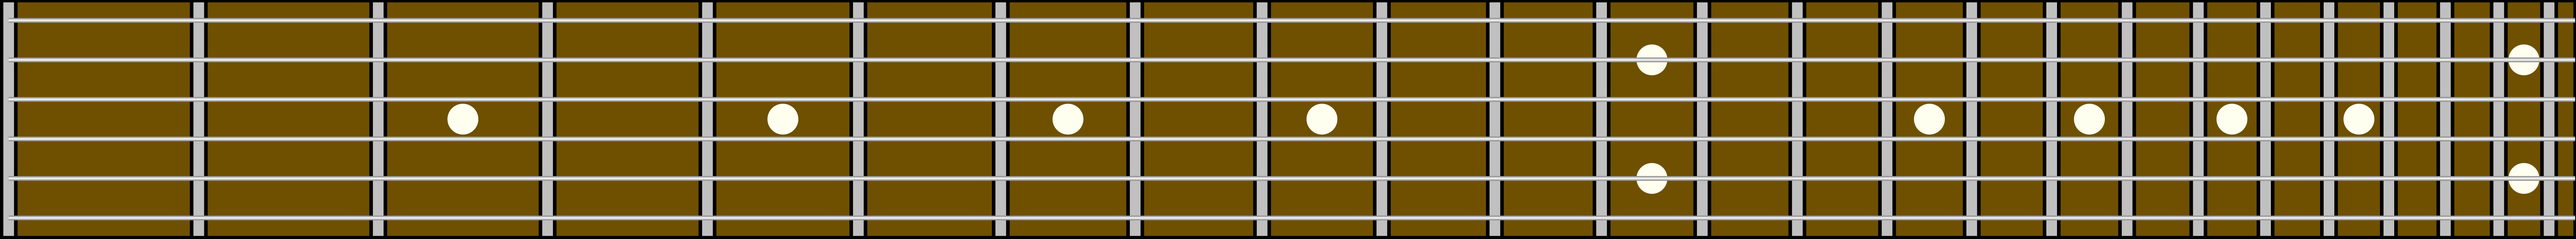
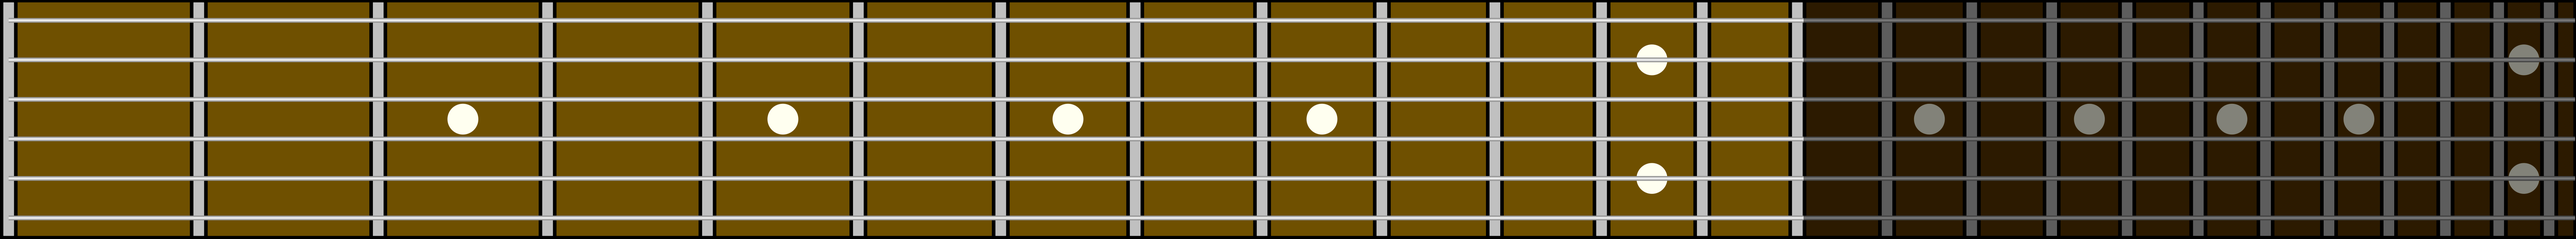
Add new chords to discovery algorithm, add shadow to fretboard, add interval and chord notes in popup

Changed region(s): [[0.6849, 0.0, 1.0, 1.0]]

diff --git a/js/main.js b/js/main.js
@@ -37,21 +37,31 @@ $('.marker').click(function() {
 $('#findChord').click(function() {
 	var notesList = [];
 	var scale;
+	var notesText = '';
+	var chord = {};
 
 	$('.marker').each(function(index) {
 		if ($(this).css('visibility') == 'visible') {
 			var stringPerc = $(this)[0].style.top;
-			var fretPerc = $(this)[0].style.left
+			var fretPerc = $(this)[0].style.left;
+
 			notesList.push(getNote(getFretFromPerc(fretPerc)+getStringFromPerc(stringPerc)));
+			console.log($('#chordNotes').text());
+			notesText = notesText + ' ' + getNote(getFretFromPerc(fretPerc)+getStringFromPerc(stringPerc));
 		}
 	});
 
 	if (notesList.length === 0) {
 		$('#warning').text('Please select frets to identify a chord.');
+	} else if (notesList.length < 3) {
+		$('#warning').text('Please select at least 3 notes to form a chord.');
 	} else {
 		$('#warning').text('');
 		scale = getScale(notesList[0]);
-		$('#chordName').text(notesList[0]+' '+identifyChord(getInterval(notesList, scale)));
+		chord = identifyChord(getInterval(notesList, scale));
+		$('#chordName').text(notesList[0]+' '+chord.name);
+		$('#chordNotes').text('Notes: '+notesText);
+		$('#chordInterval').text('Interval: '+chord.interval);
 		$('#modal').modal('show');
 	}
 });
@@ -254,57 +264,115 @@ function getInterval(notes, scale) {
 }
 
 function identifyChord(interval) {
-	if (interval.indexOf('1') >= 0 &&  interval.indexOf('2') >= 0 && interval.indexOf('3') >= 0 && interval.indexOf('7') >= 0) {
-		return 'Major 9th';
-	} else if (interval.indexOf('1') >= 0 &&  interval.indexOf('2') >= 0 && interval.indexOf('b3') >= 0 && interval.indexOf('b7') >= 0) {
-		return 'Minor 9th';
-	} else if (interval.indexOf('1') >= 0 &&  interval.indexOf('b3') >= 0 && interval.indexOf('b5') >= 0 && interval.indexOf('b7') >= 0) {
-		return 'Half Diminished';
-	} else if (interval.indexOf('1') >= 0 &&  interval.indexOf('2') >= 0 && interval.indexOf('3') >= 0 && interval.indexOf('b7') >= 0) {
-		return 'Dominant 9th';
-	} else if (interval.indexOf('1') >= 0 &&  interval.indexOf('b3') >= 0 && interval.indexOf('b5') >= 0 && interval.indexOf('6') >= 0) {
-		return 'Diminished 7th';
-	} else if (interval.indexOf('1') >= 0 &&  interval.indexOf('3') >= 0 && interval.indexOf('#5') >= 0 && interval.indexOf('b7') >= 0) {
-		return 'Augmented 7th';
-	} else if (interval.indexOf('1') >= 0 &&  interval.indexOf('3') >= 0 && interval.indexOf('b5') >= 0 && interval.indexOf('b7') >= 0) {
-		return 'Seventh Flat 5';
-	} else if (interval.indexOf('1') >= 0 && interval.indexOf('3') >= 0 && interval.indexOf('7') >= 0) {
-		return 'Major 7th';
-	} else if (interval.indexOf('1') >= 0 && interval.indexOf('b3') >= 0 && interval.indexOf('b7') >= 0) {
-		return 'Minor 7th';
-	} else if (interval.indexOf('1') >= 0 && interval.indexOf('b3') >= 0 && interval.indexOf('7') >= 0) {
-		return 'Major/Minor 7th';
-	} else if (interval.indexOf('1') >= 0 && interval.indexOf('3') >= 0 && interval.indexOf('6') >= 0) {
-		return 'Major 6th';
-	} else if (interval.indexOf('1') >= 0 && interval.indexOf('b3') >= 0 && interval.indexOf('6') >= 0) {
-		return 'Minor 6th';
-	} else if (interval.indexOf('1') >= 0 && interval.indexOf('b3') >= 0 && interval.indexOf('4') >= 0) {
-		return 'Minor Add 4th';
-	} else if (interval.indexOf('1') >= 0 && interval.indexOf('3') >= 0 && interval.indexOf('b7') >= 0) {
-		return 'Dominant 7th';
-	} else if (interval.indexOf('1') >= 0 && interval.indexOf('3') >= 0 && interval.indexOf('4') >= 0) {
-		return 'Major Add 4th';
-	} else if (interval.indexOf('1') >= 0 && interval.indexOf('4') >= 0 && interval.indexOf('b7') >= 0) {
-		return '7th Suspended 4th';
-	} else if (interval.indexOf('1') >= 0 && interval.indexOf('b3') >= 0 && interval.indexOf('b5') >= 0) {
-		return 'Diminished';
-	} else if (interval.indexOf('1') >= 0 && interval.indexOf('3') >= 0) {
-		return 'Major';
-	} else if (interval.indexOf('1') >= 0 && interval.indexOf('b3') >= 0) {
-		return 'Minor';
-	} else if (interval.indexOf('1') >= 0 && interval.indexOf('2') >= 0) {
-		return 'Suspended 2nd';
-	} else if (interval.indexOf('1') >= 0 && interval.indexOf('4') >= 0) {
-		return 'Suspended 4th';
-	} else if (interval.indexOf('1') >= 0 && interval.indexOf('5') >= 0) {
-		return 'Fifth (Power Chord)';
-	} else if (interval.indexOf('1') >= 0 && interval.indexOf('b5') >= 0) {
-		return 'Flat Fifth';
-	} else if (interval.indexOf('1') >= 0 && interval.indexOf('#5') >= 0) {
-		return 'Augmented';
-	} else if (interval.indexOf('1') >= 0) {
-		return 'Octave';
-	} else {
-		return 'Unknown Chord';
+	var chord = {};
+
+	for (note in interval) {
+		console.log(interval[note]);
 	}
+
+	if (interval.indexOf('1') >= 0 &&  interval.indexOf('2') >= 0 && interval.indexOf('3') >= 0 && interval.indexOf('7') >= 0) {
+		chord.name = 'Major 9th';
+		chord.interval = '1-3-5-7-9';
+	} else if (interval.indexOf('1') >= 0 &&  interval.indexOf('2') >= 0 && interval.indexOf('b3') >= 0 && interval.indexOf('b7') >= 0) {
+		chord.name = 'Minor 9th';
+		chord.interval = '1-b3-5-b7-9';
+	} else if (interval.indexOf('1') >= 0 &&  interval.indexOf('2') >= 0 && interval.indexOf('3') >= 0 && interval.indexOf('b7') >= 0) {
+		chord.name = 'Dominant 9th';
+		chord.interval = '1-3-5-b7-9';
+	} else if (interval.indexOf('1') >= 0 &&  interval.indexOf('b3') >= 0 && interval.indexOf('b5') >= 0 && interval.indexOf('b7') >= 0) {
+		chord.name = 'Half Diminished';
+		chord.interval = '1-b3-b5-b7';
+	} else if (interval.indexOf('1') >= 0 &&  interval.indexOf('b3') >= 0 && interval.indexOf('b5') >= 0 && interval.indexOf('6') >= 0) {
+		chord.name = 'Diminished 7th';
+		chord.interval = '1-b3-b5-bb7';
+	} else if (interval.indexOf('1') >= 0 &&  interval.indexOf('3') >= 0 && interval.indexOf('#5') >= 0 && interval.indexOf('b7') >= 0) {
+		chord.name = 'Augmented 7th';
+		chord.interval = '1-3-#5-b7';
+	} else if (interval.indexOf('1') >= 0 &&  interval.indexOf('3') >= 0 && interval.indexOf('b5') >= 0 && interval.indexOf('b7') >= 0) {
+		chord.name = 'Seventh Flat 5';
+		chord.interval = '1-3-b5-b7';
+	} 
+
+	else if (interval.indexOf('1') >= 0 && interval.indexOf('3') >= 0 && interval.indexOf('7') >= 0) {
+		chord.name = 'Major 7th';
+		chord.interval = '1-3-5-7';
+	} else if (interval.indexOf('1') >= 0 && interval.indexOf('5') >= 0 && interval.indexOf('7') >= 0) {
+		chord.name = 'Major 7th (omit 3rd)';
+		chord.interval = '1-5-7';
+	} else if (interval.indexOf('1') >= 0 && interval.indexOf('2') >= 0 && interval.indexOf('7') >= 0) {
+		chord.name = 'Major 9th (omit 3rd)';
+		chord.interval = '1-5-7-9';
+	} else if (interval.indexOf('1') >= 0 && interval.indexOf('2') >= 0 && interval.indexOf('b7') >= 0) {
+		chord.name = 'Dominant 9th (omit 3rd)';
+		chord.interval = '1-5-b7-9';
+	} else if (interval.indexOf('1') >= 0 && interval.indexOf('#5') >= 0 && interval.indexOf('b7') >= 0) {
+		chord.name = 'Augmented 7th (omit 3rd)';
+		chord.interval = '1-#5-b7';
+	} else if (interval.indexOf('1') >= 0 && interval.indexOf('b5') >= 0 && interval.indexOf('b7') >= 0) {
+		chord.name = 'Seventh Flat 5 (omit 3rd)';
+		chord.interval = '1-b5-b7';
+	} else if (interval.indexOf('1') >= 0 && interval.indexOf('3') >= 0 && interval.indexOf('6') >= 0) {
+		chord.name = 'Major 6th';
+		chord.interval = '1-3-5-6';
+	} else if (interval.indexOf('1') >= 0 && interval.indexOf('5') >= 0 && interval.indexOf('6') >= 0) {
+		chord.name = 'Major 6th (omit 3rd)';
+		chord.interval = '1-5-6';
+	} else if (interval.indexOf('1') >= 0 && interval.indexOf('3') >= 0 && interval.indexOf('b7') >= 0) {
+		chord.name = 'Dominant 7th';
+		chord.interval = '1-3-5-b7';
+	} else if (interval.indexOf('1') >= 0 && interval.indexOf('5') >= 0 && interval.indexOf('b7') >= 0) {
+		chord.name = 'Dominant 7th (omit 3rd)';
+		chord.interval = '1-5-b7';
+	} else if (interval.indexOf('1') >= 0 && interval.indexOf('b3') >= 0 && interval.indexOf('b7') >= 0) {
+		chord.name = 'Minor 7th';
+		chord.interval = '1-b3-5-b7';
+	} else if (interval.indexOf('1') >= 0 && interval.indexOf('b3') >= 0 && interval.indexOf('7') >= 0) {
+		chord.name = 'Major/Minor 7th';
+		chord.interval = '1-b3-5-7';
+	} else if (interval.indexOf('1') >= 0 && interval.indexOf('b3') >= 0 && interval.indexOf('6') >= 0) {
+		chord.name = 'Minor 6th';
+		chord.interval = '1-b3-5-6';
+	} else if (interval.indexOf('1') >= 0 && interval.indexOf('b3') >= 0 && interval.indexOf('b5') >= 0) {
+		chord.name = 'Diminished';
+		chord.interval = '1-b3-b5';
+	} else if (interval.indexOf('1') >= 0 && interval.indexOf('b3') >= 0 && interval.indexOf('4') >= 0) {
+		chord.name = 'Minor Add 4th';
+		chord.interval = '1-b3-4-5';
+	} else if (interval.indexOf('1') >= 0 && interval.indexOf('4') >= 0 && interval.indexOf('b7') >= 0) {
+		chord.name = '7th Suspended 4th';
+		chord.interval = '1-4-5-b7';
+	} else if (interval.indexOf('1') >= 0 && interval.indexOf('3') >= 0 && interval.indexOf('4') >= 0) {
+		chord.name = 'Major Add 4th';
+		chord.interval = '1-3-4-5';
+	} else if (interval.indexOf('1') >= 0 && interval.indexOf('2') >= 0 && interval.indexOf('5') >= 0) {
+		chord.name = 'Suspended 2nd';
+		chord.interval = '1-2-5';
+	} else if (interval.indexOf('1') >= 0 && interval.indexOf('4') >= 0 && interval.indexOf('5') >= 0) {
+		chord.name = 'Suspended 4th';
+		chord.interval = '1-4-5';
+	} 
+
+	else if (interval.indexOf('1') >= 0 && interval.indexOf('3') >= 0) {
+		chord.name = 'Major';
+		chord.interval = '1-3-5';
+	} else if (interval.indexOf('1') >= 0 && interval.indexOf('b3') >= 0) {
+		chord.name = 'Minor';
+		chord.interval = '1-b3-5';
+	} else if (interval.indexOf('1') >= 0 && interval.indexOf('5') >= 0) {
+		chord.name = 'Fifth (Power Chord)';
+		chord.interval = '1-5';
+	} else if (interval.indexOf('1') >= 0 && interval.indexOf('b5') >= 0) {
+		chord.name = 'Flat Fifth';
+		chord.interval = '1-b5';
+	} else if (interval.indexOf('1') >= 0 && interval.indexOf('#5') >= 0) {
+		chord.name = 'Augmented';
+		chord.interval = '1-#5';
+	} 
+
+	else {
+		chord.name = 'Unknown Chord';
+		chord.interval = '';
+	}
+
+	return chord;
 }

diff --git a/index.html b/index.html
@@ -8,15 +8,10 @@
 	</head>
 	<body>
 		<div class="container-fluid">
-			<h3>Chord Finder</h3>
-<!-- 			<img class="marker" id="lowE" src="img/marker.png" />
-			<img class="marker" id="A" src="img/marker.png" />
-			<img class="marker" id="D" src="img/marker.png" />
-			<img class="marker" id="G" src="img/marker.png" />
-			<img class="marker" id="B" src="img/marker.png" />
-			<img class="marker" id="highE" class="marker" src="img/marker.png" />
+			<h1>Chord Finder</h1>
 
-			<img id="fretboard" style="width: 100%" src="img/fretboard_cropped.png" /> -->
+			<p>Select at least 3 notes on the fretboard to find out what chord it makes! Click the nut for an open note.</p>
+
 			<div id="fretboard-container">
 				<img class="marker" id="lowE" src="img/marker.png" />
 				<img class="marker" id="A" src="img/marker.png" />
@@ -40,10 +35,12 @@
 				<div class="modal-content">
 					<div class="modal-header">
 					<button type="button" class="close" data-dismiss="modal" aria-label="Close"><span aria-hidden="true"></span></button>
-					<h4 class="modal-title" id="label">Your chord is...</h4>
+					<h3 class="modal-title" id="label">Your chord is...</h3>
 				</div>
 				<div class="modal-body">
-					<h2 id='chordName'>Chord</h2>
+					<h1 class='text-center' id='chordName'>Chord</h1>
+					<h3 id='chordNotes'>Notes</h3>
+					<h3 id='chordInterval'>Interval</h3>
 				</div>
 				<div class="modal-footer">
 					<button type="button" class="btn btn-default" data-dismiss="modal">Close</button>
